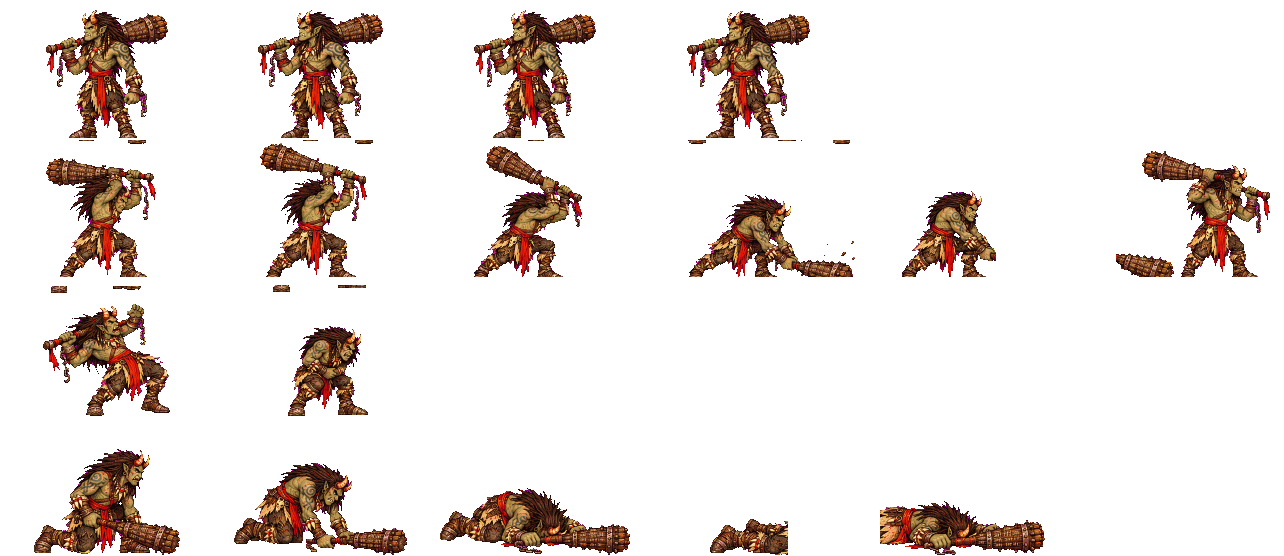
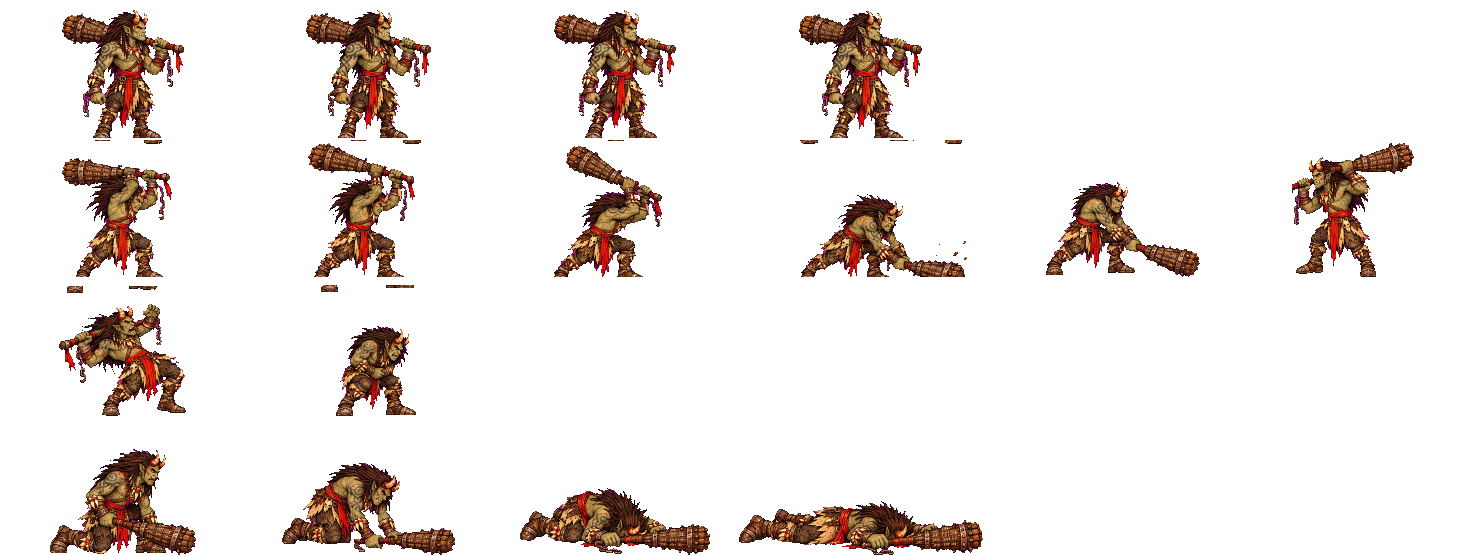
Ogro y saqueador bien orientados, habilidades para la primera decada, Drenaje del Hechicero sin curacion antes del nivel 30, profesion de eleccion unica y segunda vuelta de 1-20 (sin desplegar)

diff --git a/src/game.js b/src/game.js
@@ -2,7 +2,7 @@
 
 import { supabase } from './supabaseClient.js';
 import * as auth from './auth.js';
-import { syncBattleStage, playBattleAnim } from './battleStage.js?v=110';
+import { syncBattleStage, playBattleAnim } from './battleStage.js?v=111';
 import { mountLabyrinth } from './labyrinthMap.js?v=8';
 import { CLASS_SPRITES, ENEMY_SPRITES, playerSpriteFor, playerIllustrationFor, enemySpriteFor, ALLY_TEMPLATE_SPRITES } from './battleSprites.js?v=92';
 
@@ -575,7 +575,10 @@ const LEVEL30_SKILL_BONUS = {
   lluvia_flechas:   {bonusVsMarked: 0.35},                    // era 0.25 (sin subir el daño en área)
   bola_fuego:       {applyChance: 1.0},                       // era 0.8
   lanza_hielo:      {duration: 3},                            // era 2
-  toque_venenoso:   {maxStack: 5}                             // era 3 (4 hasta el rediseño del Hechicero, 2026-10-08)
+  toque_venenoso:   {maxStack: 5},                            // era 3 (4 hasta el rediseño del Hechicero, 2026-10-08)
+  // 2026-10-10 (ariochbu): la curación del Drenaje era demasiado para los primeros pisos (cuenta nueva, sin aliados,
+  // hasta el piso 16). Antes del nivel 30 el Drenaje no cura; la curación es su mejora.
+  drenaje_de_esencia: {healPct: 0.30}
 };
 // PROFESIONES (nivel 80; idea de ariochbu, 2026-10-09: "arquero se puede convertir en ballestero o
 // francotirador"). Cada senda elige entre dos: una de GRUPO (limpia salas) y una de DUELO (un solo
@@ -583,7 +586,6 @@ const LEVEL30_SKILL_BONUS = {
 // otro. Se hace con dos piezas: skillMult (daño de cada habilidad) y bonus (los mismos campos que
 // LEVEL30_SKILL_BONUS, que ya leen tanto el texto como la resolución del combate).
 const PROFESSION_LEVEL = 80;
-const PROFESSION_CHANGE_COST = 20000;   // la primera elección es gratis; cambiar cuesta oro
 const PROFESSIONS = {
   tirador: [
     {id:'ballestero', name:'Ballestero', role:'grupo', icon:'🎯', text:'Virotes en abanico: barre líneas enteras, pero cada disparo suelto pega menos.',
@@ -800,7 +802,7 @@ const SKILLS = {
     id:'drenaje_de_esencia', name:'Drenaje de Esencia', cost:{tipo:'estamina', valor:18}, dmgType:'arcano', mult:0.70,
     selfHealPctOfDmg:0.30,
     applies:{name:'Quebranto', chance:1, duration:3, resPenalty:15, mentalPenalty:0.5},
-    desc:'Daño arcano moderado. Te cura el 30% de lo infligido y deja al objetivo Quebrantado 3 turnos: -15 a todas sus resistencias y la mitad de su resistencia a estados.',
+    desc: ()=> `Daño arcano moderado. ${skillBonus('drenaje_de_esencia','healPct',0) > 0 ? `Te cura el ${Math.round(skillBonus('drenaje_de_esencia','healPct',0)*100)}% de lo infligido y deja` : 'Deja'} al objetivo Quebrantado 3 turnos: -15 a todas sus resistencias y la mitad de su resistencia a estados.${skillBonus('drenaje_de_esencia','healPct',0) > 0 ? '' : ' (Al nivel 30: además te cura el 30% de lo infligido.)'}`,
     targetMode:'any'
   },
   mirada_de_locura: {
@@ -931,12 +933,12 @@ const DECADE_BESTIARY = [
   // patrón, manteniendo la temática propia de cada una.
   {
     regular: [
-      {id:'goblin_arquero', name:'Goblin arquero', icon:'🏹', role:'ranged', hp:0.85, atk:1.1, res:{fisico:-5,fuego:0,hielo:0,veneno:5,aturdimiento:0}, moves:['pegar','robar']},
-      {id:'goblin_guerrero', name:'Goblin guerrero', icon:'🗡', role:'melee', hp:1.15, atk:1.05, res:{fisico:10,fuego:-5,hielo:0,veneno:0,aturdimiento:5}, moves:['pegar'], frontline:true},
-      {id:'goblin_saqueador', name:'Goblin saqueador', icon:'🪓', role:'melee', hp:1.0, atk:1.0, res:{fisico:0,fuego:0,hielo:-10,veneno:10,aturdimiento:10}, moves:['pegar','robar'], frontline:true},
-      {id:'goblin_chaman', name:'Chamán goblin', icon:'💀', role:'mago', hp:0.85, atk:0.95, res:{fisico:-10,fuego:15,hielo:15,veneno:25,aturdimiento:-10}, moves:['maldicion_venenosa','curar_aliado','debilitar']}
+      {id:'goblin_arquero', name:'Goblin arquero', icon:'🏹', role:'ranged', hp:0.85, atk:1.1, res:{fisico:-5,fuego:0,hielo:0,veneno:5,aturdimiento:0}, abilities:{disparo:{label:'Disparo', mult:1.0}, flecha_sucia:{label:'Flecha sucia', mult:0.85, applies:{name:'Veneno', chance:0.30, duration:3, stack:true, maxStack:3}, cooldown:3}, disparo_apuntado:{label:'Disparo apuntado', mult:1.35, cooldown:4, condition:(ctx)=>ctx.targetHpPct>0.6}}, aiPriority:['disparo_apuntado','flecha_sucia','disparo']},
+      {id:'goblin_guerrero', name:'Goblin guerrero', icon:'🗡', role:'melee', hp:1.15, atk:1.05, res:{fisico:10,fuego:-5,hielo:0,veneno:0,aturdimiento:5}, abilities:{tajo:{label:'Tajo', mult:1.0}, golpe_escudo:{label:'Golpe de escudo', mult:0.8, applies:{name:'Debilitado', chance:0.35, duration:2}, cooldown:4}, embestida:{label:'Embestida', mult:1.3, cooldown:4}}, aiPriority:['embestida','golpe_escudo','tajo'], frontline:true},
+      {id:'goblin_saqueador', name:'Goblin saqueador', icon:'🪓', role:'melee', hp:1.0, atk:1.0, res:{fisico:0,fuego:0,hielo:-10,veneno:10,aturdimiento:10}, abilities:{punalada:{label:'Puñalada', mult:1.0}, tajo_sucio:{label:'Tajo sucio', mult:0.85, applies:{name:'Sangrado', chance:0.35, duration:3, stack:true, maxStack:3}, cooldown:3}, golpe_bajo:{label:'Golpe bajo', mult:1.25, cooldown:4, condition:(ctx)=>ctx.targetHpPct<0.5}}, aiPriority:['golpe_bajo','tajo_sucio','punalada'], frontline:true},
+      {id:'goblin_chaman', name:'Chamán goblin', icon:'💀', role:'mago', hp:0.85, atk:0.95, res:{fisico:-10,fuego:15,hielo:15,veneno:25,aturdimiento:-10}, abilities:{maldicion:{label:'Maldición', mult:1.05}, maldicion_venenosa:{label:'Maldición venenosa', mult:0.9, applies:{name:'Veneno', chance:0.40, duration:3, stack:true, maxStack:3}, cooldown:3}, curacion_ch:{label:'Curación', utility:'heal_ally', healPct:0.10, cooldown:4, condition:(ctx)=>combat.enemies.some(e=>e.hp>0 && e.hp<e.maxHP*0.7)}, mal_de_ojo:{label:'Mal de ojo', mult:0.7, applies:{name:'Debilitado', chance:0.50, duration:2}, cooldown:4}}, aiPriority:['curacion_ch','mal_de_ojo','maldicion_venenosa','maldicion']}
     ],
-    elite: [{id:'jefe_goblin', name:'Jefe goblin', icon:'👹', role:'melee', hp:1.9, atk:1.4, res:{fisico:20,fuego:-10,hielo:5,veneno:15,aturdimiento:25}, moves:['pegar','aplastar'], elite:true, frontline:true}],
+    elite: [{id:'jefe_goblin', name:'Jefe goblin', icon:'👹', role:'melee', hp:1.9, atk:1.4, res:{fisico:20,fuego:-10,hielo:5,veneno:15,aturdimiento:25}, abilities:{hachazo:{label:'Hachazo', mult:1.0}, golpe_brutal:{label:'Golpe brutal', mult:1.4, cooldown:3}, grito_mando:{label:'Grito de mando', utility:'buff_allies', cooldown:5, buffAllies:{name:'Fortalecido', duration:2, stacks:5}, condition:(ctx)=>combat.enemies.filter(e=>e.hp>0).length>1}}, aiPriority:['grito_mando','golpe_brutal','hachazo'], elite:true, frontline:true}],
     guardians: [],
     // Guardián único por piso (1 a 9), como en el resto de décadas (pedido de
     // ariochbu, 2026-10-09). La dificultad NO cambia: antes se sorteaba entre
@@ -946,13 +948,13 @@ const DECADE_BESTIARY = [
     guardianByFloor: {
       1: {id:'goblin_centinela', name:'Goblin Centinela', icon:'📯', role:'melee', hp:1.75, atk:1.175, res:{fisico:12,fuego:5,hielo:5,veneno:15,aturdimiento:25}, moves:['pegar','aplastar','debilitar'], boss:true, frontline:true},
       2: {id:'goblin_trampero', name:'Goblin Trampero', icon:'🪤', role:'melee', hp:1.75, atk:1.175, res:{fisico:10,fuego:5,hielo:5,veneno:20,aturdimiento:25}, moves:['pegar','aplastar','debilitar'], boss:true, frontline:true},
-      3: {id:'goblin_carnicero', name:'Goblin Carnicero', icon:'🔪', role:'melee', hp:1.75, atk:1.175, res:{fisico:12,fuego:5,hielo:5,veneno:15,aturdimiento:25}, moves:['pegar','aplastar','debilitar'], boss:true, frontline:true},
-      4: {id:'hobgoblin', name:'Hobgoblin', icon:'🛡', role:'melee', hp:1.8, atk:1.15, res:{fisico:15,fuego:5,hielo:5,veneno:15,aturdimiento:30}, moves:['pegar','aplastar','debilitar'], boss:true, frontline:true},
-      5: {id:'bruja_pantano', name:'Bruja del Pantano', icon:'🧪', role:'melee', hp:1.75, atk:1.175, res:{fisico:10,fuego:10,hielo:10,veneno:20,aturdimiento:20}, moves:['pegar','aplastar','debilitar'], boss:true, frontline:true},
-      6: {id:'gilgoblin', name:'Gilgoblin', icon:'🔱', role:'melee', hp:1.7, atk:1.2, res:{fisico:10,fuego:10,hielo:10,veneno:20,aturdimiento:20}, moves:['pegar','aplastar','debilitar'], boss:true, frontline:true},
-      7: {id:'tamborilero_guerra', name:'Tamborilero de Guerra', icon:'🥁', role:'melee', hp:1.75, atk:1.175, res:{fisico:12,fuego:5,hielo:5,veneno:15,aturdimiento:25}, moves:['pegar','aplastar','debilitar'], boss:true, frontline:true},
-      8: {id:'campeon_hobgoblin', name:'Campeón Hobgoblin', icon:'⚔', role:'melee', hp:1.8, atk:1.15, res:{fisico:15,fuego:5,hielo:5,veneno:15,aturdimiento:30}, moves:['pegar','aplastar','debilitar'], boss:true, frontline:true},
-      9: {id:'capataz_ogro', name:'Capataz del Ogro', icon:'⛓', role:'melee', hp:1.7, atk:1.2, res:{fisico:10,fuego:10,hielo:10,veneno:20,aturdimiento:20}, moves:['pegar','aplastar','debilitar'], boss:true, frontline:true},
+      3: {id:'goblin_carnicero', name:'Goblin Carnicero', icon:'🔪', role:'melee', hp:1.75, atk:1.175, res:{fisico:12,fuego:5,hielo:5,veneno:15,aturdimiento:25}, abilities:{tajo_c:{label:'Tajo de carnicero', mult:1.0}, gancho:{label:'Gancho de carne', mult:0.85, applies:{name:'Sangrado', chance:0.50, duration:3, stack:true, maxStack:3}, cooldown:3}, cuchilla_brutal:{label:'Cuchilla brutal', mult:1.4, cooldown:3}}, aiPriority:['cuchilla_brutal','gancho','tajo_c'], boss:true, frontline:true},
+      4: {id:'hobgoblin', name:'Hobgoblin', icon:'🛡', role:'melee', hp:1.8, atk:1.15, res:{fisico:15,fuego:5,hielo:5,veneno:15,aturdimiento:30}, abilities:{lanzazo:{label:'Lanzazo', mult:1.0}, embestida_h:{label:'Embestida con escudo', mult:1.35, cooldown:3}, romper_guardia:{label:'Romper la guardia', mult:0.75, applies:{name:'Debilitado', chance:0.55, duration:2}, cooldown:4}}, aiPriority:['embestida_h','romper_guardia','lanzazo'], boss:true, frontline:true},
+      5: {id:'bruja_pantano', name:'Bruja del Pantano', icon:'🧪', role:'melee', hp:1.75, atk:1.175, res:{fisico:10,fuego:10,hielo:10,veneno:20,aturdimiento:20}, abilities:{cucharon:{label:'Cucharonazo', mult:1.0}, pocion_toxica:{label:'Poción tóxica', mult:0.85, applies:{name:'Veneno', chance:0.50, duration:3, stack:true, maxStack:3}, cooldown:3}, maleficio:{label:'Maleficio', mult:0.7, applies:{name:'Debilitado', chance:0.55, duration:2}, cooldown:4}, caldero:{label:'Caldero hirviente', mult:1.35, cooldown:4}}, aiPriority:['caldero','maleficio','pocion_toxica','cucharon'], boss:true, frontline:true},
+      6: {id:'gilgoblin', name:'Gilgoblin', icon:'🔱', role:'melee', hp:1.7, atk:1.2, res:{fisico:10,fuego:10,hielo:10,veneno:20,aturdimiento:20}, abilities:{tajo_g:{label:'Tajo', mult:1.0}, doble_tajo:{label:'Doble tajo', mult:1.3, cooldown:3}, corte_feroz:{label:'Corte feroz', mult:0.85, applies:{name:'Sangrado', chance:0.40, duration:3, stack:true, maxStack:3}, cooldown:3}, frenesi:{label:'Frenesí', utility:'self_buff', oncePerCombat:true, instant:true, condition:(ctx)=>ctx.selfHpPct<0.5, selfBuff:{name:'Frenesí', duration:99, dmgMult:1.15}}}, aiPriority:['frenesi','doble_tajo','corte_feroz','tajo_g'], boss:true, frontline:true},
+      7: {id:'tamborilero_guerra', name:'Tamborilero de Guerra', icon:'🥁', role:'melee', hp:1.75, atk:1.175, res:{fisico:12,fuego:5,hielo:5,veneno:15,aturdimiento:25}, abilities:{baquetazo:{label:'Baquetazo', mult:1.0}, redoble:{label:'Redoble de guerra', utility:'self_buff', cooldown:5, selfBuff:{name:'Redoble', duration:3, dmgMult:1.2}}, golpe_tambor:{label:'Golpe de tambor', mult:0.8, applies:{name:'Aturdido', chance:0.20, duration:1}, cooldown:4}, mazazo:{label:'Mazazo', mult:1.35, cooldown:3}}, aiPriority:['redoble','mazazo','golpe_tambor','baquetazo'], boss:true, frontline:true},
+      8: {id:'campeon_hobgoblin', name:'Campeón Hobgoblin', icon:'⚔', role:'melee', hp:1.8, atk:1.15, res:{fisico:15,fuego:5,hielo:5,veneno:15,aturdimiento:30}, abilities:{tajo_ch:{label:'Tajo', mult:1.0}, tajo_amplio:{label:'Tajo amplio', mult:1.4, cooldown:3}, rompeguardia:{label:'Rompeguardia', mult:0.75, applies:{name:'Debilitado', chance:0.55, duration:2}, cooldown:4}, furia_campeon:{label:'Furia del campeón', utility:'self_buff', oncePerCombat:true, instant:true, condition:(ctx)=>ctx.selfHpPct<0.4, selfBuff:{name:'Furia del campeón', duration:99, dmgMult:1.2}}}, aiPriority:['furia_campeon','tajo_amplio','rompeguardia','tajo_ch'], boss:true, frontline:true},
+      9: {id:'capataz_ogro', name:'Capataz del Ogro', icon:'⛓', role:'melee', hp:1.7, atk:1.2, res:{fisico:10,fuego:10,hielo:10,veneno:20,aturdimiento:20}, abilities:{latigazo:{label:'Latigazo', mult:1.0, applies:{name:'Sangrado', chance:0.30, duration:3, stack:true, maxStack:3}}, cadena:{label:'Cadena al cuello', mult:0.8, applies:{name:'Paralisis', chance:0.25, duration:1}, cooldown:4}, castigo:{label:'Castigo', mult:1.45, cooldown:3}}, aiPriority:['castigo','cadena','latigazo'], boss:true, frontline:true},
     },
     // Fases (2026-10-02): 60% Furia, 30% lanza rocas.
     decadeBoss: {id:'ogro', name:'Ogro', icon:'👺', role:'melee', hp:4.2, atk:1.9, res:{fisico:25,fuego:0,hielo:0,veneno:10,aturdimiento:35}, boss:true, frontline:true,
@@ -4849,6 +4851,9 @@ const ENEMY_VS_CLASS_81 = {from:81, to:89,
 // décadas con otra escala y cuatro aliados). Los tanques superaban casi todas las salas y la retaguardia
 // moría antes del guardián: por eso reciben más daño unos y menos otros.
 const ENEMY_VS_CLASS = {     // {índice de década: {senda: mult}}
+  // 1-20 (2026-10-10): valores medidos suavizados a la mitad; con tan pocas salas por nivel la medida es muy ruidosa.
+  0: {pesada:1.34, paladin:0.97, doblefilo:1.04, tirador:1.17, mago:0.98, hechicero:0.95},
+  1: {pesada:0.91, paladin:1.07, doblefilo:1.03, tirador:1.14, mago:1.34, hechicero:1.23},
   2: {pesada:1.29, paladin:1.51, doblefilo:0.67, tirador:1.29, mago:1.14, hechicero:0.64},
   3: {pesada:1.63, paladin:1.42, doblefilo:0.72, tirador:0.92, mago:0.71, hechicero:0.87},
   4: {pesada:1.80, paladin:1.80, doblefilo:0.89, tirador:1.15, mago:0.63, hechicero:0.67},
@@ -4857,8 +4862,8 @@ const ENEMY_VS_CLASS = {     // {índice de década: {senda: mult}}
   7: {pesada:1.26, paladin:1.15, doblefilo:1.01, tirador:1.20, mago:0.73, hechicero:0.57},
 };
 const GUARDIAN_VS_CLASS = {  // {índice de década: {senda: mult}}, se multiplica al anterior en la sala del guardián
-  0: {pesada:1.09, paladin:1.30, doblefilo:0.88, tirador:0.57, mago:1.04, hechicero:1.04},
-  1: {pesada:0.83, paladin:1.26, doblefilo:0.85, tirador:0.80, mago:1.34, hechicero:1.55},
+  0: {pesada:0.91, paladin:1.22, doblefilo:0.88, tirador:0.81, mago:1.09, hechicero:1.09},
+  1: {pesada:0.91, paladin:1.12, doblefilo:0.92, tirador:0.89, mago:1.16, hechicero:1.24},
   2: {pesada:1.45, paladin:1.23, doblefilo:1.03, tirador:0.79, mago:0.72, hechicero:1.34},
   3: {pesada:1.28, paladin:1.31, doblefilo:1.10, tirador:0.81, mago:0.92, hechicero:1.17},
   4: {pesada:1.10, paladin:1.25, doblefilo:0.69, tirador:0.94, mago:0.81, hechicero:0.95},
@@ -4867,8 +4872,8 @@ const GUARDIAN_VS_CLASS = {  // {índice de década: {senda: mult}}, se multipli
   7: {pesada:0.67, paladin:0.75, doblefilo:1.10, tirador:0.88, mago:1.00, hechicero:1.80},
 };
 const BOSS_VS_CLASS = {      // {piso del jefe: {senda: mult}}
-  10: {pesada:1.10, paladin:0.95, doblefilo:0.82, tirador:0.77, mago:0.80, hechicero:0.82},
-  20: {pesada:0.78, paladin:0.82, doblefilo:1.80, tirador:0.62, mago:1.80, hechicero:1.80},
+  10: {pesada:1.23, paladin:0.88, doblefilo:0.98, tirador:1.02, mago:0.77, hechicero:0.95},
+  20: {pesada:0.76, paladin:0.70, doblefilo:1.30, tirador:0.70, mago:1.34, hechicero:1.34},
   30: {pesada:1.35, paladin:1.33, doblefilo:0.78, tirador:0.95, mago:1.34, hechicero:1.15},
   40: {pesada:1.02, paladin:0.82, doblefilo:1.16, tirador:0.87, mago:1.17, hechicero:1.80},
   50: {pesada:1.00, paladin:0.90, doblefilo:0.85, tirador:0.95, mago:1.15, hechicero:1.60},
@@ -6308,18 +6313,19 @@ function renderFicha(){
   const tabs = [['ataque','⚔ Ataque'],['defensa','🛡 Defensa'],['conjuntos','✨ Conjuntos'],['profesion','🎓 Profesión']];
   // Profesión (nivel 80): dos opciones por senda; la primera elección es gratis, cambiar cuesta oro.
   const profList = PROFESSIONS[state.char.style] || [], profNow = myProfession();
-  const profLine = (p)=> Object.entries(p.skillMult || {}).map(([id, m])=> `${SKILLS[id].name} ${m > 1 ? '+' : ''}${Math.round((m - 1) * 100)}%`).join(' · ');
+  // Se elige UNA vez y no se puede cambiar (decisión de ariochbu, 2026-10-10): por eso cada opción
+  // enseña a la vista qué gana y qué pierde.
+  const profSide = (p, up)=> Object.entries(p.skillMult || {}).filter(([, m])=> up ? m > 1 : m < 1)
+    .map(([id, m])=> `${SKILLS[id].name} ${m > 1 ? '+' : ''}${Math.round((m - 1) * 100)}% de daño`).concat(up && p.extra ? [p.extra] : []).join(' · ');
   const profesion = state.char.level < PROFESSION_LEVEL
-    ? `<p class="inv-empty-msg">Al llegar al nivel ${PROFESSION_LEVEL} podrás elegir una profesión para tu senda: ${profList.map(p=> p.name).join(' o ')}.</p>`
-    : profList.map(p=>{
+    ? `<p class="inv-empty-msg">Al llegar al nivel ${PROFESSION_LEVEL} podrás elegir una profesión para tu senda: ${profList.map(p=> p.name).join(' o ')}. Se elige una sola vez.</p>`
+    : profList.filter(p=> !profNow || profNow.id === p.id).map(p=>{
         const mine = profNow && profNow.id === p.id;
-        const btn = mine ? '<span>Tu profesión</span>'
-          : `<button class="reset-btn" data-prof="${p.id}">${profNow ? `Cambiar (${PROFESSION_CHANGE_COST.toLocaleString('es')} de oro)` : 'Elegir'}</button>`;
-        return `<div class="fc-set"><div class="fc-set-head"><b>${p.icon} ${p.name} · ${p.role === 'grupo' ? 'de grupo' : 'de duelo'}</b>${btn}</div>
-          <div class="fc-set-line ${mine ? 'on' : ''}"><i>★</i><span>${p.text}</span></div>
-          <div class="fc-set-line ${mine ? 'on' : ''}"><i>±</i><span><b>Daño:</b> ${profLine(p)}</span></div>
-          ${p.extra ? `<div class="fc-set-line ${mine ? 'on' : ''}"><i>+</i><span>${p.extra}</span></div>` : ''}</div>`;
-      }).join('') + '<p class="sc-note" style="margin-top:6px;">Una profesión no te hace más fuerte en todo: refuerza una forma de pelear a costa de la otra. La primera elección es gratis.</p>';
+        return `<div class="fc-set"><div class="fc-set-head"><b>${p.icon} ${p.name} · ${p.role === 'grupo' ? 'de grupo' : 'de duelo'}</b>${mine ? '<span>Tu profesión</span>' : `<button class="reset-btn" data-prof="${p.id}">Elegir</button>`}</div>
+          <div class="fc-set-line on"><i>★</i><span>${p.text}</span></div>
+          <div class="fc-set-line on"><i>▲</i><span><b>Puntos fuertes:</b> ${profSide(p, true)}</span></div>
+          <div class="fc-set-line"><i>▼</i><span><b>Puntos débiles:</b> ${profSide(p, false)}</span></div></div>`;
+      }).join('') + (profNow ? '' : '<p class="sc-note" style="margin-top:6px;"><b>La profesión se elige una sola vez y no se puede cambiar.</b> No te hace más fuerte en todo: refuerza una forma de pelear a costa de la otra.</p>');
   (fichaHostEl || document.getElementById('main-panel')).innerHTML = `
     <div class="fc">
       <div class="fc-left">
@@ -6353,12 +6359,10 @@ function renderFicha(){
     </div>`;
   document.querySelectorAll('[data-fc-tab]').forEach(b=>{ b.onclick = ()=>{ fichaTab = b.dataset.fcTab; renderFicha(); }; });
   document.querySelectorAll('[data-prof]').forEach(b=>{ b.onclick = ()=>{
-    const p = (PROFESSIONS[state.char.style] || []).find(x=> x.id === b.dataset.prof), had = !!myProfession();
-    if(!p) return;
-    if(state.dungeon){ showOverlay('Profesión', 'No puedes cambiar de profesión dentro del laberinto.'); return; }
-    if(had && state.char.gold < PROFESSION_CHANGE_COST){ showOverlay('Profesión', `Cambiar de profesión cuesta ${PROFESSION_CHANGE_COST.toLocaleString('es')} de oro y no te alcanza.`); return; }
-    showChoiceOverlay(`${p.icon} ${p.name}`, `${p.text}${had ? ` Cambiar cuesta ${PROFESSION_CHANGE_COST.toLocaleString('es')} de oro.` : ' Podrás cambiarla más adelante pagando oro.'}`, [
-      {label: had ? 'Cambiar de profesión' : 'Elegir esta profesión', primary:true, onClick: ()=>{ if(had) state.char.gold -= PROFESSION_CHANGE_COST; setProfession(p.id); renderAll(); renderFicha(); }},
+    const p = (PROFESSIONS[state.char.style] || []).find(x=> x.id === b.dataset.prof);
+    if(!p || myProfession()) return;
+    showChoiceOverlay(`${p.icon} ${p.name}`, `${p.text}<br><br><b>Esta elección es definitiva: no podrás cambiar de profesión.</b>`, [
+      {label:'Elegir esta profesión', primary:true, onClick: ()=>{ if(!myProfession()){ setProfession(p.id); renderAll(); renderFicha(); } }},
       {label:'Todavía no', onClick: ()=>{}}]);
   }; });
   const fcInv = document.getElementById('fc-inv');
@@ -10719,8 +10723,8 @@ const BETA_DECADE_BOSS_TUNING = {
   // CALIBRACIÓN 3-20 PARA JUGADORES NUEVOS (2026-10-10, pedido de ariochbu: "medianamente duro para un nuevo").
   // Referencia: sin aliados y equipo común (3-5) o poco común (6-10), piedras E y Caídos poco comunes; del 11 al 20,
   // un aliado, equipo raro, piedras F y Caídos raros. Antes: .24/.50 y .80/.80 (con esa referencia el Ogro se ganaba el 22-26%).
-  10: {hp:0.206, atk:0.425},  // Ogro: 96% con 0.196/0.405; subido un 5% sin volver a medir (objetivo 90)
-  20: {hp:0.70, atk:0.70},  // Matriarca: 83% (objetivo 85)
+  10: {hp:0.213, atk:0.439},  // Ogro: 87% con la referencia de la segunda vuelta (ver BETA_ENEMY_SCALE)
+  20: {hp:0.81, atk:0.81},  // Matriarca: 70% con 0.858 y el reparto por senda suavizado (Guerrero 49, Arquero 45); bajada un 6%
   30: {hp:1.82, atk:1.73},  // Riakis: 81% (objetivo nuevo 80; antes 1.96/1.87 para 65%)
   40: {hp:1.58, atk:1.49},  // Usurpador: 75% con el reparto por senda (objetivo nuevo 75). Muy sensible.
 };
@@ -10738,11 +10742,14 @@ const BETA_ENEMY_SCALE = {
   // CALIBRACIÓN 3-20 PARA JUGADORES NUEVOS (2026-10-10, ver la referencia en BETA_DECADE_BOSS_TUNING). Objetivos: llegar al
   // guardián 90%, guardián 95% (3-9) y 90% (11-19). Medido: 3-9 llega 84-94, guardián 90-97; 11-19 llega 90-96, guardián 86-99.
   // Los pisos 1-2 no cambian (BETA_ENEMY_SCALE_TUTORIAL). Antes: década 0 solo guardián .60/.70; década 1 todo 1.08/1.16.
-  0: {regular:{hp:1.67, atk:1.67}, elite:{hp:1.67, atk:1.67}, guardian:{hp:0.51, atk:0.59}},
+  // 2026-10-10 (segunda vuelta): la primera década ganó habilidades y el Hechicero perdió la curación del Drenaje antes del
+  // nivel 30; ariochbu llegó al piso 16 con una cuenta nueva sin aliados, así que la referencia sube un escalón: poco común
+  // (3-5), raro (6-14) y rango B (15-20). Medido: 3-9 llega 89, guardián 96; 11-19 llega 93, guardián 90.
+  0: {regular:{hp:1.85, atk:1.85}, elite:{hp:1.85, atk:1.85}, guardian:{hp:0.51, atk:0.59}},
   // REDISEÑO DE CLASES (2026-10-08). Objetivos de ariochbu (niveles completados,
   // medidos SIN Ley del Caos ni Corrupción): 1-20 90% (no se tocan), 21-40 80%,
   // 41-60 70%, 61-80 60%. Medido: 21-29 → 81%, 31-39 → 85%.
-  1: {regular:{hp:2.40, atk:2.58}, elite:{hp:2.40, atk:2.58}, guardian:{hp:0.64, atk:0.68}},
+  1: {regular:{hp:2.40, atk:2.58}, elite:{hp:2.40, atk:2.58}, guardian:{hp:0.80, atk:0.85}},
   // RECALIBRACIÓN 2026-10-09 (objetivos nuevos de ariochbu, ver tools/calib_1_80.js): llegar al guardián 85%,
   // guardián 85% (21-29) y 80% (31-39). Antes: 1.73 todo; 2.79/3.22 y guardián 2.57/2.89.
   2: {regular:{hp:2.58, atk:2.58}, elite:{hp:2.58, atk:2.58}, guardian:{hp:1.57, atk:1.57}},   // medido: llega 82, guardián 89, niveles 73
@@ -12566,8 +12573,8 @@ async function playerUseSkill(skillId, targetIdx, isRepeat){
     turnEffects.push(target.tpl
       ? {targetKind:'enemy', key: combat.enemies.indexOf(target), amount:dmg, kind:'dmg'}
       : {targetKind:'ally', key: target.id, amount:dmg, kind:'dmg'});
-    if(skill.selfHealPctOfDmg){
-      let healPct = skillId==='golpe_consagrado' ? skillBonus('golpe_consagrado','healPct', skill.selfHealPctOfDmg) : skill.selfHealPctOfDmg;
+    if(skill.selfHealPctOfDmg && !(skillId==='drenaje_de_esencia' && skillBonus('drenaje_de_esencia','healPct',0) <= 0)){
+      let healPct = skillId==='golpe_consagrado' ? skillBonus('golpe_consagrado','healPct', skill.selfHealPctOfDmg) : skillId==='drenaje_de_esencia' ? skillBonus('drenaje_de_esencia','healPct',0) : skill.selfHealPctOfDmg;
       // Sello de la Sentencia épico+: Golpe Consagrado cura más contra un
       // enemigo debilitado (puntos porcentuales sumados al % base).
       if(skillId==='golpe_consagrado' && targetWasWeakened){

diff --git a/src/battleStage.js b/src/battleStage.js
@@ -31,7 +31,7 @@ const chibiImgs = {}; // key -> Image (cargando o lista)
 function chibiAnimFor(key){
   const meta = CHIBI[key];
   if(!meta) return null;
-  if(!chibiImgs[key]){ chibiImgs[key] = new Image(); chibiImgs[key].src = `src/assets/chibi/${key}.png?v=8`; }
+  if(!chibiImgs[key]){ chibiImgs[key] = new Image(); chibiImgs[key].src = `src/assets/chibi/${key}.png?v=9`; }
   const img = chibiImgs[key];
   return img.complete && img.naturalWidth > 0 ? new SpriteAnim(img, sheetFromMeta(meta)) : null;
 }

diff --git a/index.html b/index.html
@@ -120,6 +120,6 @@
   <div class="footer-note">Dungeon &amp; Stone — proyecto de fans sin fines de lucro, de inspiración libre en la novela «Sobreviviendo al juego siendo un bárbaro». No está afiliado a sus autores ni editores. Tu progreso se guarda automáticamente en tu cuenta.</div>
 </div>
 
-<script type="module" src="./src/game.js?v=349"></script>
+<script type="module" src="./src/game.js?v=352"></script>
 </body>
 </html>

diff --git a/visor-batalla.html b/visor-batalla.html
@@ -66,7 +66,7 @@
   </div>
 </div>
 <script type="module">
-import { syncBattleStage, playBattleAnim } from './src/battleStage.js?v=110';
+import { syncBattleStage, playBattleAnim } from './src/battleStage.js?v=111';
 import { ENEMY_SPRITES, enemySpriteFor } from './src/battleSprites.js';
 
 const E = (id, name, o={}) => ({ tpl:Object.assign({id, name, frontline:true}, o), name, icon:'👤', hp:1000, maxHP:1000, statuses:[] });

diff --git a/tools/import_chibi.py b/tools/import_chibi.py
@@ -238,7 +238,13 @@ LAMINA_NUEVA_POR_NOMBRE = {
 NUEVA_MIRA_IZQUIERDA = set()
 # Láminas que mezclan sentidos: {tira: {fila: [columnas]}} con los cuadros que miran al revés que el resto.
 # Goblin saqueador (visto en combate por ariochbu, 2026-10-10): el reposo y parte del ataque miran a la izquierda.
-CUADROS_AL_REVES = {'enemigo_goblin_saqueador': {0: [0, 1, 2, 3], 1: [0, 1, 5]}}
+# Ogro (ídem, 2026-10-10): el reposo y el último cuadro del ataque miran a la izquierda.
+CUADROS_AL_REVES = {'enemigo_goblin_saqueador': {0: [0, 1, 2, 3], 1: [0, 1, 5]}, 'enemigo_ogro': {0: [0, 1, 2, 3], 1: [5]}}
+# Cuadros que la detección partió en dos: {tira: {fila: [(primero, último)]}} se vuelven a unir.
+CUADROS_UNIDOS = {'enemigo_ogro': {3: [(3, 4)]}}
+# Cuadros recortados a mano, en píxeles de la lámina original: {tira: {(fila, columna): (caja, [zonas a borrar])}}.
+# Ogro: los dos últimos cuadros del ataque se solapan (el garrote caído de uno queda bajo el garrote alzado del otro).
+CUADROS_A_MANO = {'enemigo_ogro': {(1, 4): ((1040, 345, 1338, 532), []), (1, 5): ((1270, 268, 1500, 532), [(1270, 440, 1342, 532)])}}
 
 
 def new_sheet_id(path):
@@ -616,7 +622,7 @@ def find_frames_grid(alpha, nrows=4, ncols=6):
     return [[bx[:4] for bx in line if bx[4] >= 0.25 * ref_area] for line in rows]
 
 
-def build_strip(im, alpha, rows, flip=False, walk=False, odd=None):
+def build_strip(im, alpha, rows, flip=False, walk=False, odd=None, manual=None):
     rgba = np.dstack([np.asarray(im.convert('RGB')), (alpha * 255).astype(np.uint8)])
     src = Image.fromarray(rgba, 'RGBA')
     idle_h = np.median([y1 - y0 for (_x0, y0, _x1, y1) in rows[0]])
@@ -627,6 +633,12 @@ def build_strip(im, alpha, rows, flip=False, walk=False, odd=None):
         line = []
         for c, box in enumerate(boxes):
             crop = src.crop(box)
+            if manual and (r, c) in manual:
+                mbox, erase = manual[(r, c)]
+                crop = src.crop(mbox)
+                for (ex0, ey0, ex1, ey1) in erase:
+                    crop.paste((0, 0, 0, 0), (ex0 - mbox[0], ey0 - mbox[1], ex1 - mbox[0], ey1 - mbox[1]))
+                crop = crop.crop(crop.getbbox())
             if flip != (c in (odd or {}).get(r, ())):
                 crop = crop.transpose(Image.FLIP_LEFT_RIGHT)
             small = crop.resize((max(1, round(crop.width * k)), max(1, round(crop.height * k))), Image.BOX)
@@ -785,8 +797,14 @@ def process(job):
         return None, name, f, None, None
     if kind == 'enemigo2' and name not in REJILLA_FIJA:
         rows = split_merged_attack(alpha, rows)
+    if kind == 'enemigo2':
+        for r, pairs in CUADROS_UNIDOS.get(name, {}).items():
+            for a, b in sorted(pairs, reverse=True):
+                if b < len(rows[r]):
+                    part = rows[r][a:b + 1]
+                    rows[r][a:b + 1] = [(min(x[0] for x in part), min(x[1] for x in part), max(x[2] for x in part), max(x[3] for x in part))]
     flip = name[8:] in NUEVA_MIRA_IZQUIERDA if kind == 'enemigo2' else name in MIRA_IZQUIERDA
-    sheet, meta = build_strip(im, alpha, rows, flip, walk, CUADROS_AL_REVES.get(name) if kind == 'enemigo2' else None)
+    sheet, meta = build_strip(im, alpha, rows, flip, walk, CUADROS_AL_REVES.get(name) if kind == 'enemigo2' else None, CUADROS_A_MANO.get(name) if kind == 'enemigo2' else None)
     return 'tira', name, f, sheet, meta
 
 
